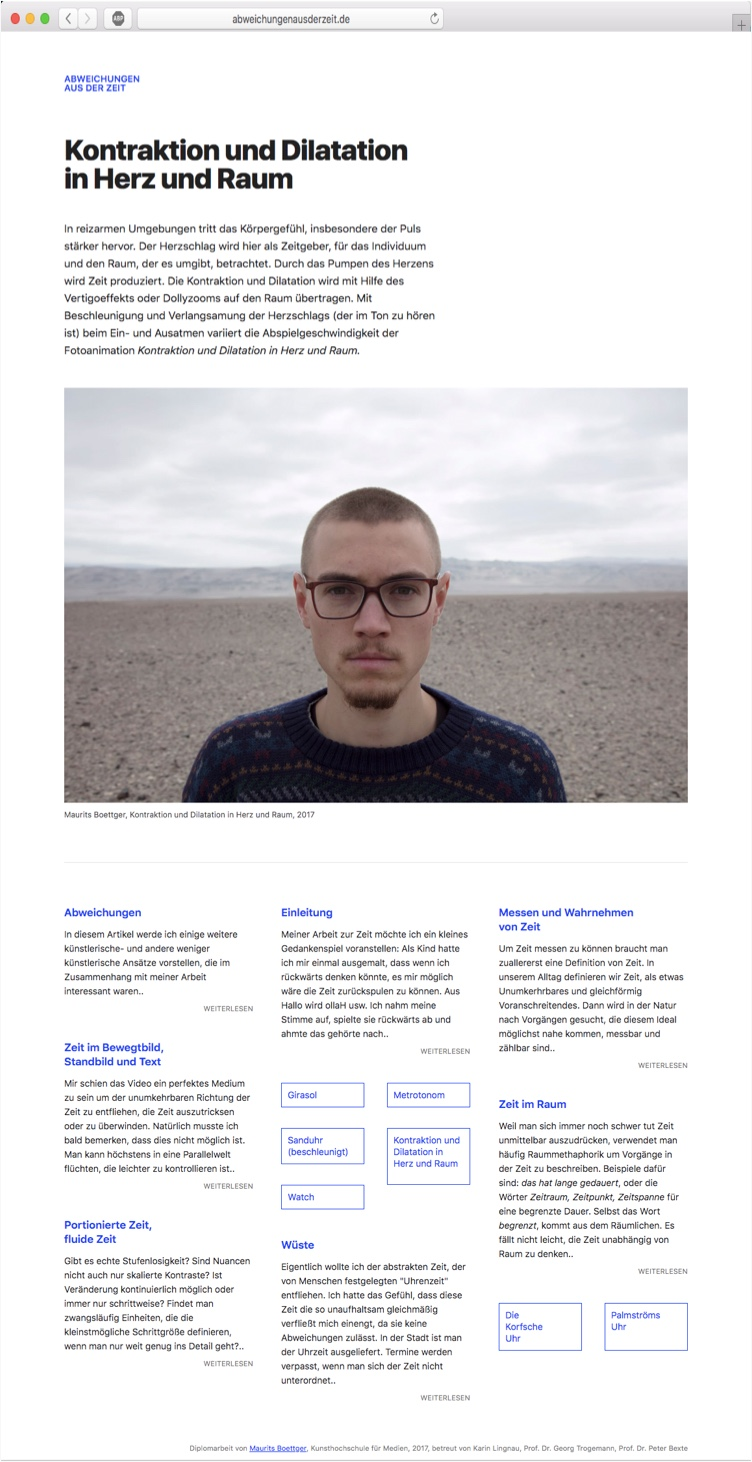
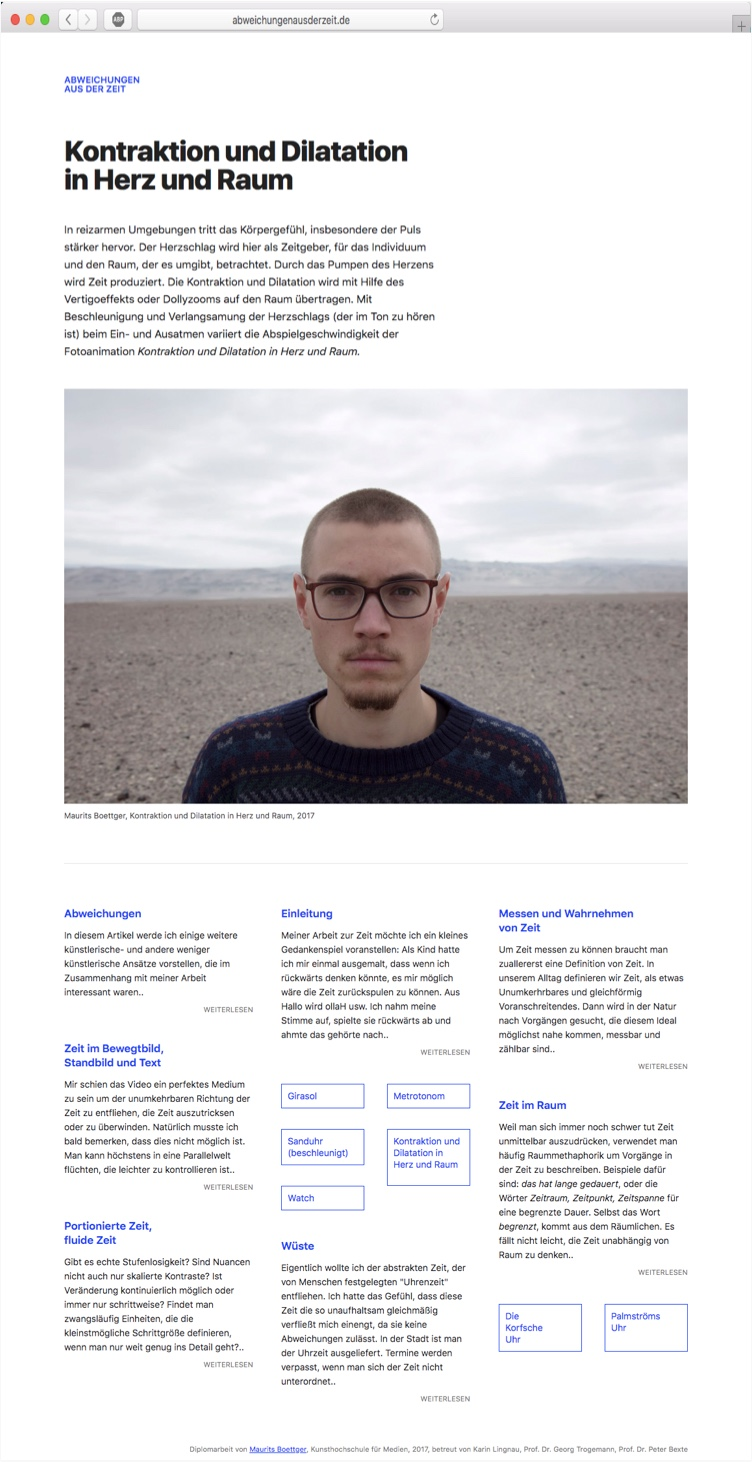
change fontsize

diff --git a/dev/scss/_styles.scss b/dev/scss/_styles.scss
@@ -4,9 +4,12 @@
 }
 
 // basic styles
-$base-font-size: 18px;
-$base-font-family: 'PT Mono', monospace;
-$base-line-height: 1.5;
+$font-size-mobile: 15px;
+$font-size-mobile-heading: 18px;
+$font-family: 'PT Mono', monospace;
+$line-height: 1.5;
+
+
 
 // distances
 $minor--px: 10px;
@@ -34,9 +37,9 @@ html {
 }
 
 body {
-  font-size: $base-font-size;
-  font-family: $base-font-family;
-  line-height: $base-line-height;
+  font-size: $font-size-mobile;
+  font-family: $font-family;
+  line-height: $line-height;
 }
 
 .content-container {
@@ -60,6 +63,7 @@ body {
 }
 
 .intro__image-container::after {
+  // make shadow for readibility of text on postcard image
   width: 100%;
   background-image: linear-gradient(to top, rgba(0, 0, 0, 0.5) 0%, rgba(0, 0, 0, 0) 35%);
   bottom: 0;
@@ -81,6 +85,8 @@ body {
   position: absolute;
   bottom: $minor--px;
   left: $minor--px;
+  font-size: $font-size-mobile-heading;
+  margin: 0;
 }
 
 .projects {
@@ -89,6 +95,7 @@ body {
 
 .projects__header {
   font-weight: bold;
+  font-size: $font-size-mobile-heading;
   position: relative;
   margin-top: $significant--px;
   padding-bottom: $significant--px;
